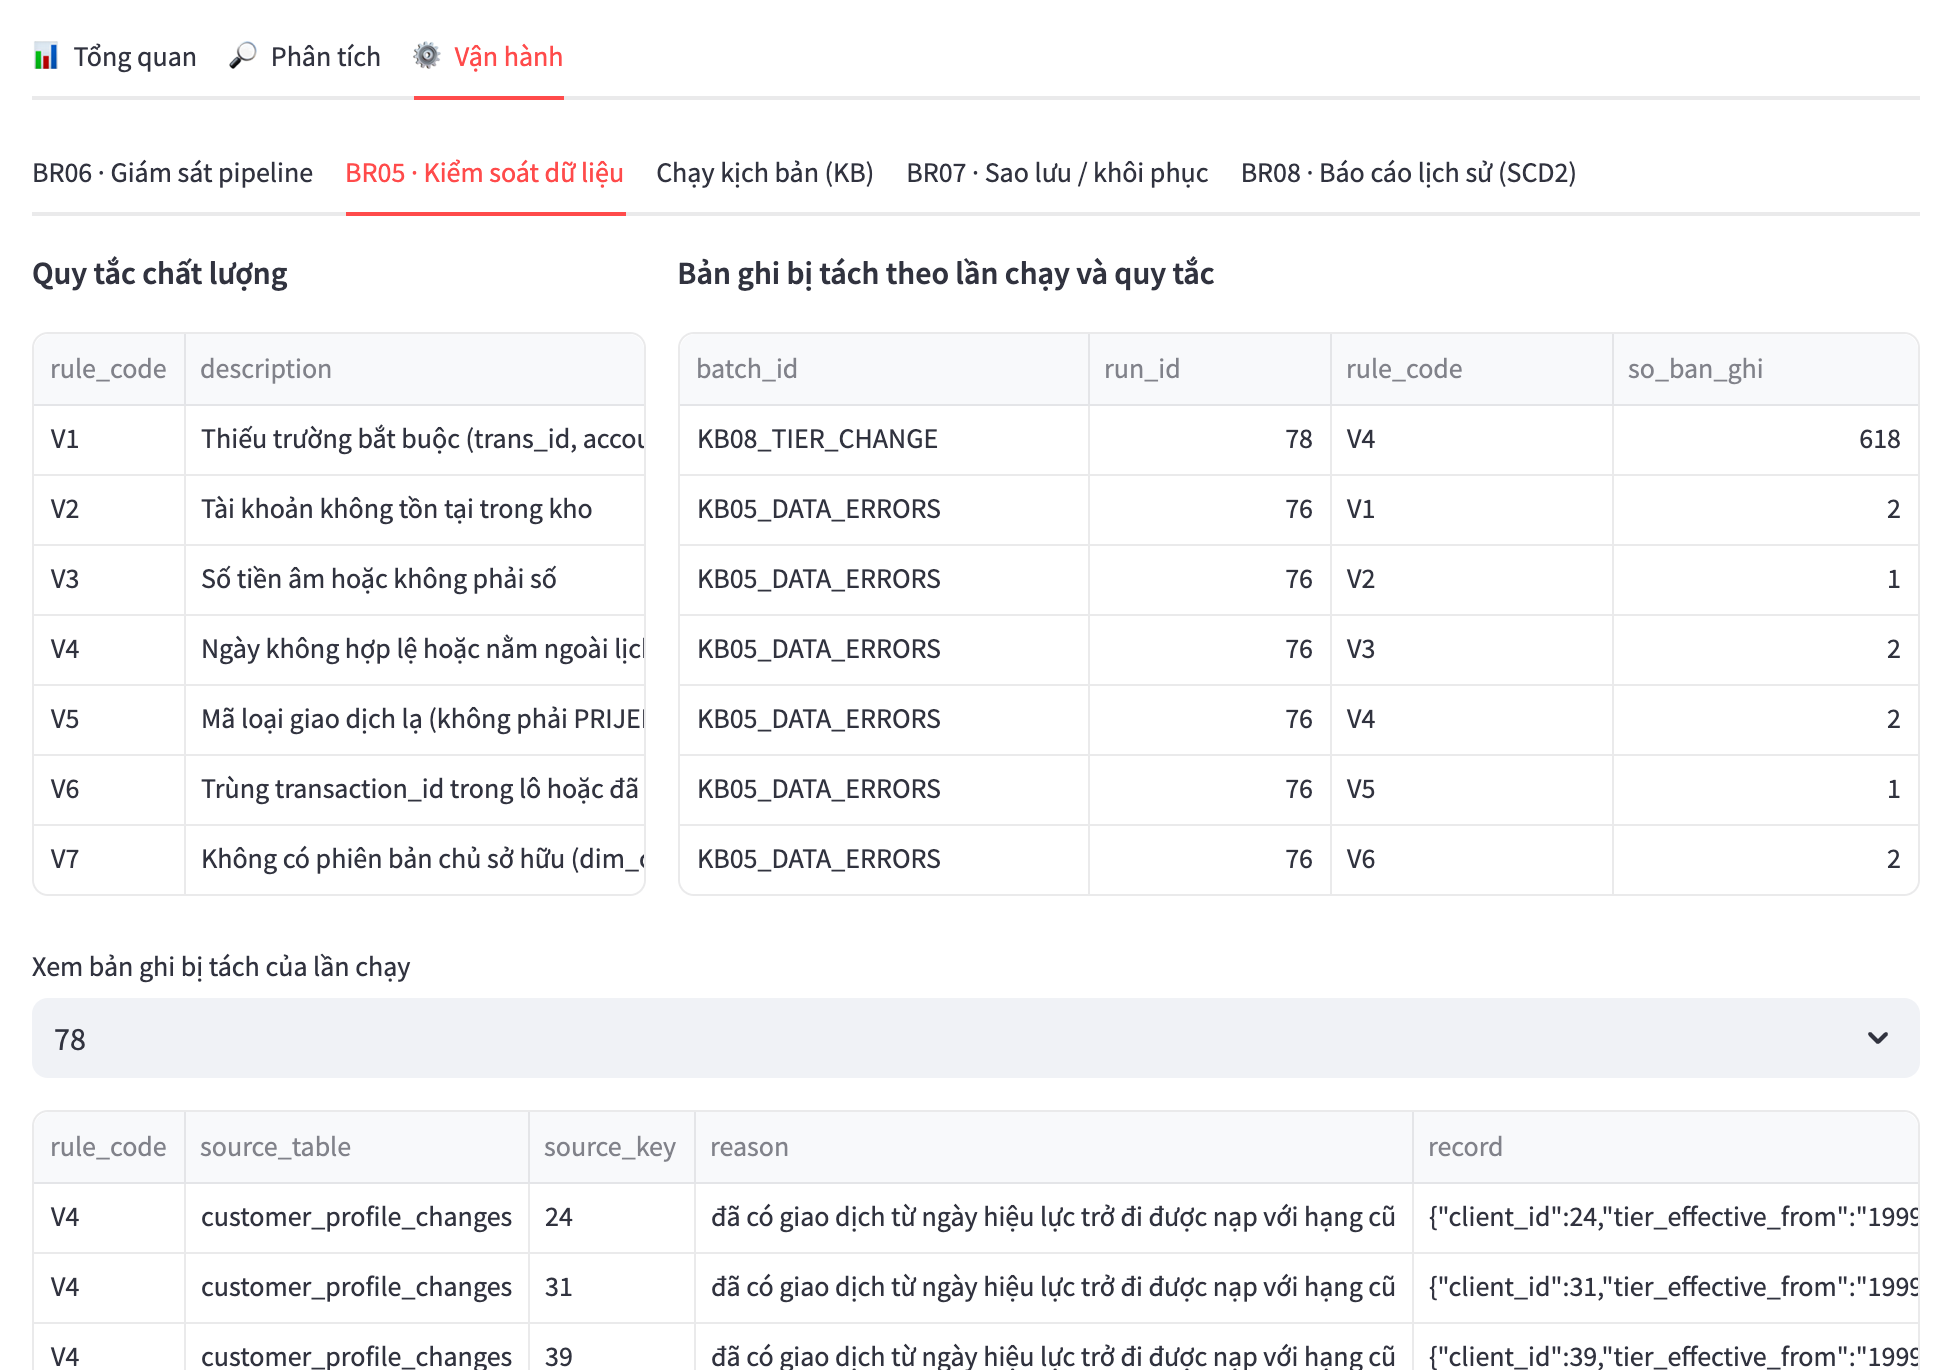
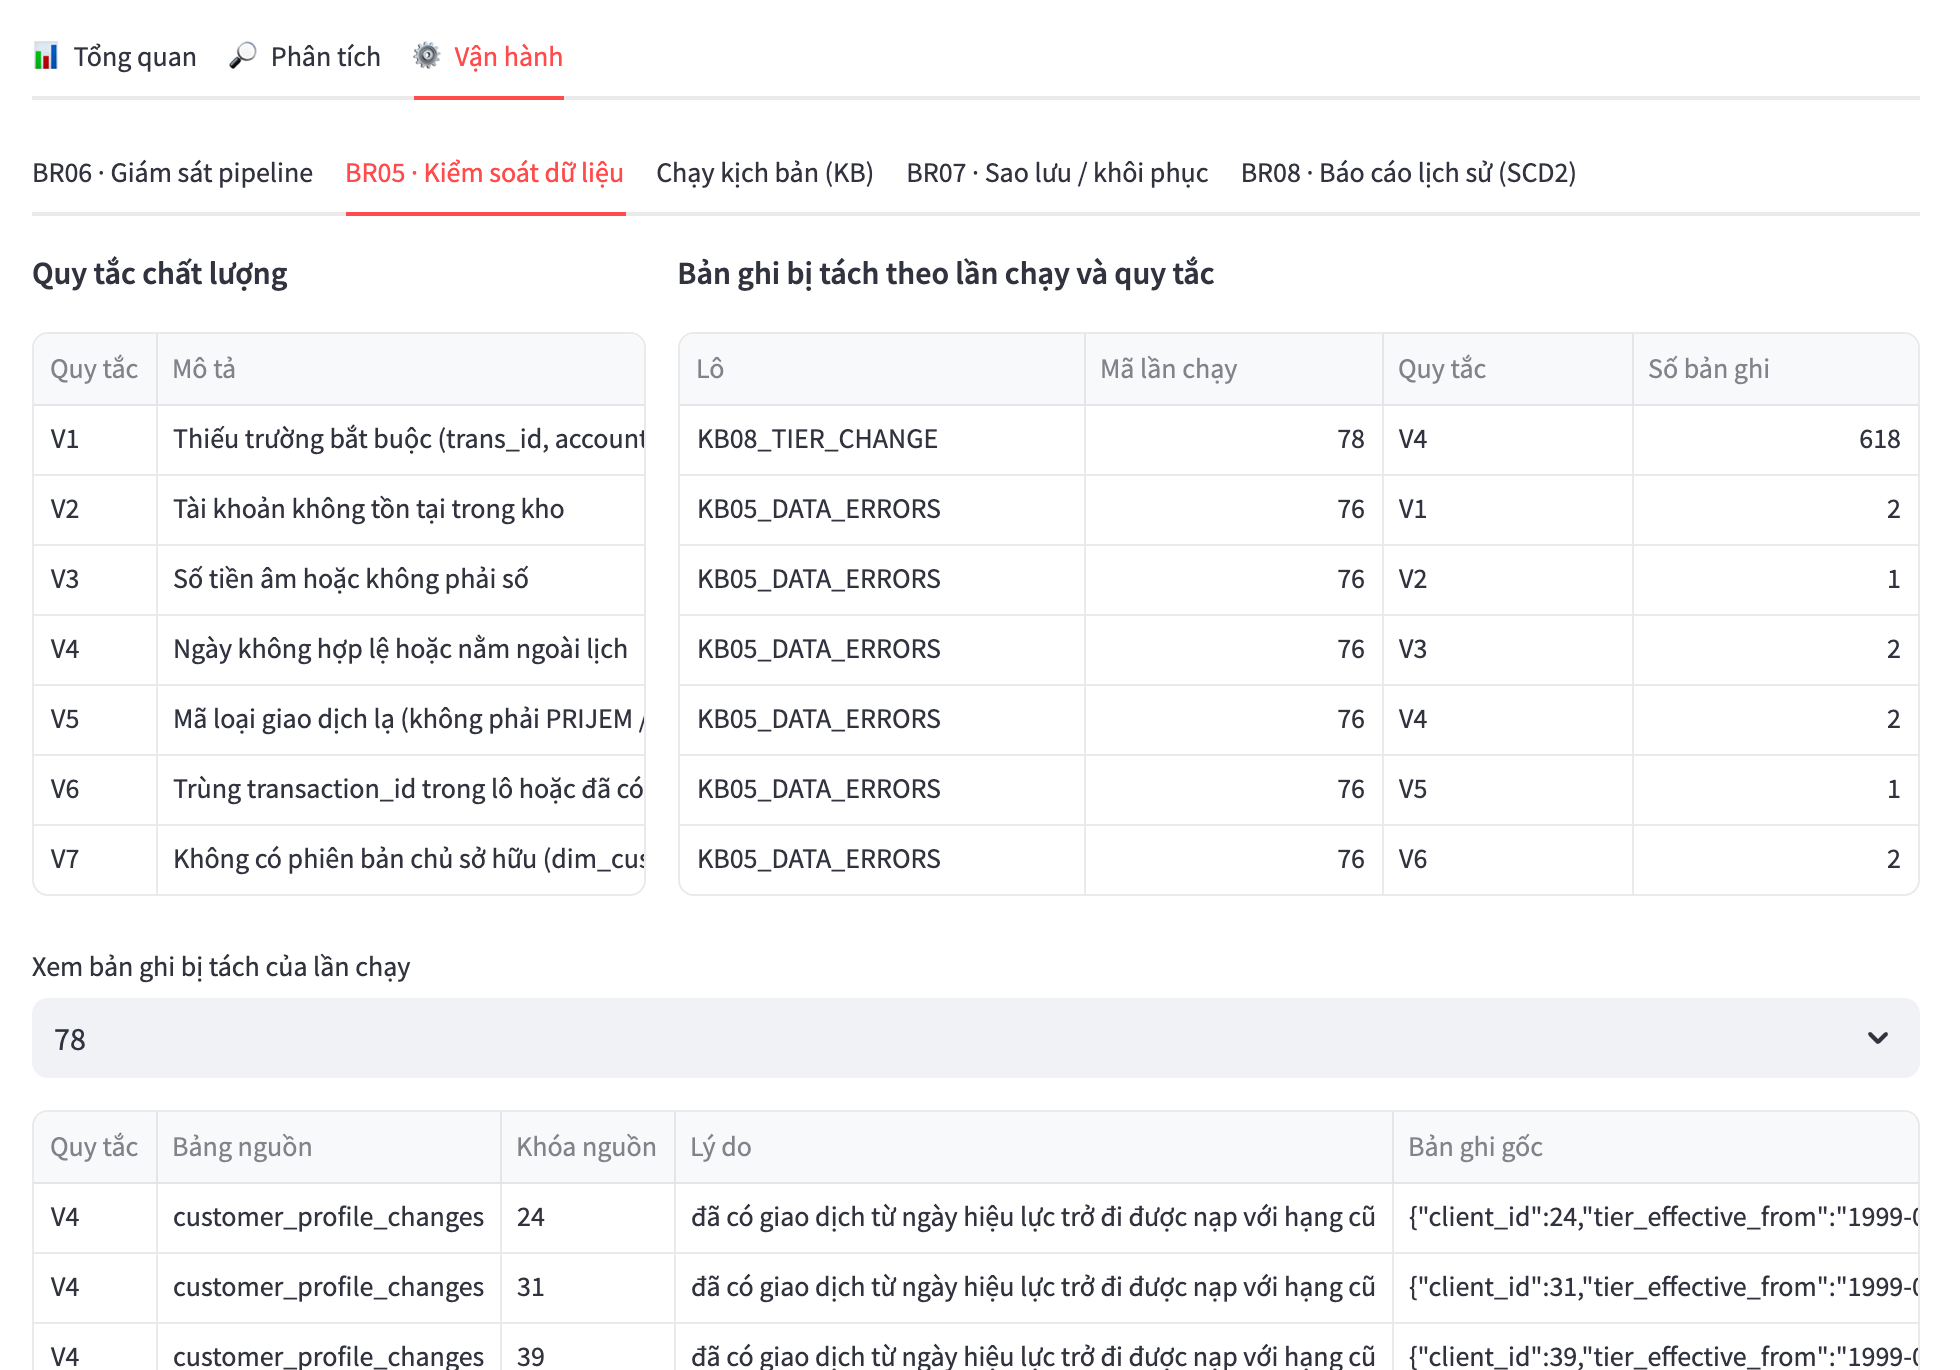
App: Vietnamese column headers for all tables; refreshed screenshots

diff --git a/apps/app/app.py b/apps/app/app.py
@@ -103,6 +103,46 @@ def money(x):
     return f"{float(x or 0):,.0f}".replace(",", ".")
 
 
+# ---------------------------------------------------------------- Vietnamese column headers
+# SQL aliases stay short ASCII; tables are shown with Vietnamese headers (vi() just before display).
+COL_VI = {
+    # money and transactions
+    "hang": "Hạng", "so_giao_dich": "Số giao dịch", "tien_vao": "Tiền vào (CZK)", "tien_ra": "Tiền ra (CZK)",
+    "dong_tien_thuan": "Dòng tiền thuần (CZK)", "so_khach": "Số khách hàng", "ngay": "Ngày",
+    "ma_giao_dich": "Mã giao dịch", "transaction_id": "Mã giao dịch", "chieu": "Chiều tiền", "loai": "Loại",
+    "phuong_thuc": "Phương thức", "muc_dich": "Mục đích", "so_tien": "Số tiền (CZK)",
+    "so_du_sau": "Số dư sau giao dịch", "chu_tai_khoan": "Chủ tài khoản", "lo_nap": "Lô nạp",
+    "nam": "Năm", "ky": "Kỳ",
+    # customer versions (SCD2)
+    "customer_sk": "Mã phiên bản", "valid_from": "Hiệu lực từ", "valid_to": "Hiệu lực đến",
+    "is_current": "Hiện tại", "updated_at": "Cập nhật lúc", "tu_ngay": "Từ ngày", "den_ngay": "Đến ngày",
+    # alerts and their handling
+    "alert_id": "Mã cảnh báo", "rule_code": "Quy tắc", "account_id": "Mã tài khoản", "period_start": "Kỳ",
+    "status": "Trạng thái", "reason": "Lý do", "batch_id": "Lô", "detected_at": "Phát hiện lúc",
+    "acted_at": "Thời điểm", "from_status": "Từ trạng thái", "to_status": "Sang trạng thái",
+    "note": "Ghi chú", "acted_by": "Người xử lý",
+    # runs, steps, rejected records
+    "run_id": "Mã lần chạy", "run_kind": "Loại lần chạy", "started_at": "Bắt đầu", "finished_at": "Kết thúc",
+    "giay": "Thời gian (giây)", "rows_received": "Số dòng nhận", "rows_loaded": "Số dòng nạp",
+    "rows_rejected": "Số dòng bị tách", "failed_step": "Bước lỗi", "error_message": "Thông báo lỗi",
+    "step_order": "Thứ tự", "step_name": "Bước", "rows_in": "Số dòng vào", "rows_out": "Số dòng ra",
+    "description": "Mô tả", "so_ban_ghi": "Số bản ghi", "source_table": "Bảng nguồn",
+    "source_key": "Khóa nguồn", "record": "Bản ghi gốc", "rejected_at": "Thời điểm tách", "n": "Số lượng",
+    # backups
+    "backup_id": "Bản sao lưu", "created_at": "Tạo lúc", "phien_ban_scd": "Số phiên bản SCD",
+    "op_id": "Mã thao tác", "op_type": "Thao tác", "khop_ban_sao_luu": "Khớp bản sao lưu",
+    # scenario input files (Berka format)
+    "trans_id": "Mã giao dịch", "date": "Ngày (YYMMDD)", "type": "Loại", "operation": "Phương thức",
+    "amount": "Số tiền", "balance": "Số dư", "k_symbol": "Mục đích", "bank": "Ngân hàng đối tác",
+    "account": "Tài khoản đối tác", "client_id": "Mã khách hàng", "membership_tier": "Hạng thành viên",
+    "tier_effective_from": "Hạng hiệu lực từ",
+}
+
+
+def vi(df):
+    return df.rename(columns=lambda c: COL_VI.get(c, c))
+
+
 # No FINAL on the fact table: the pipeline never loads a transaction_id twice (check U3); FINAL
 # on 1M rows costs memory the 2.5 GB ClickHouse container does not have to spare.
 FACT = """(SELECT f.*, toDate(toString(f.date_key)) AS d, p.cash_flow_direction AS dir,
@@ -158,8 +198,8 @@ def render_overview():
                            {base} GROUP BY hang""", lo=lo, hi=hi, tiers=tuple(tiers))
         by_tier["hang"] = pd.Categorical(by_tier["hang"], TIERS, ordered=True)
         st.markdown("**Theo hạng thành viên**")
-        st.dataframe(by_tier.sort_values("hang").style.format(
-            {c: lambda v: money(v) for c in ["so_giao_dich", "tien_vao", "tien_ra", "dong_tien_thuan"]}),
+        st.dataframe(vi(by_tier.sort_values("hang")).style.format(
+            {COL_VI[c]: lambda v: money(v) for c in ["so_giao_dich", "tien_vao", "tien_ra", "dong_tien_thuan"]}),
             hide_index=True, use_container_width=True)
 
 
@@ -198,9 +238,9 @@ def render_lookup():
         b.metric("Tiền ra", money(m_out))
         c.metric("Thuần", money(m_in - m_out))
         d.metric("Số giao dịch", len(tx))
-        st.dataframe(tx, hide_index=True, use_container_width=True, height=380,
-                     column_config={"so_tien": st.column_config.NumberColumn(format="%.2f"),
-                                    "so_du_sau": st.column_config.NumberColumn(format="%.2f")})
+        st.dataframe(vi(tx), hide_index=True, use_container_width=True, height=380,
+                     column_config={COL_VI["so_tien"]: st.column_config.NumberColumn(format="%.2f"),
+                                    COL_VI["so_du_sau"]: st.column_config.NumberColumn(format="%.2f")})
 
 
 def render_history():
@@ -221,9 +261,9 @@ def render_history():
         return r.sort_values("hang")
 
     if isinstance(old, tuple) and len(old) == 2:
-        c1.dataframe(tier_report(old), hide_index=True, use_container_width=True)
+        c1.dataframe(vi(tier_report(old)), hide_index=True, use_container_width=True)
     if isinstance(new, tuple) and len(new) == 2:
-        c2.dataframe(tier_report(new), hide_index=True, use_container_width=True)
+        c2.dataframe(vi(tier_report(new)), hide_index=True, use_container_width=True)
     scd = q_ch("""SELECT count() AS phien_ban, countIf(is_current = 1) AS hien_tai, countIf(is_current = 0) AS da_dong,
                          uniqExact(client_id) AS khach FROM dw.dim_customer FINAL""").iloc[0]
     st.write(f"`dim_customer`: **{scd.phien_ban:,}** phiên bản · {scd.hien_tai:,} hiện tại · {scd.da_dong:,} đã đóng · "
@@ -233,16 +273,16 @@ def render_history():
     vers = q_ch("""SELECT customer_sk, membership_tier AS hang, valid_from, valid_to, is_current, updated_at
                    FROM dw.dim_customer FINAL WHERE client_id = %(c)s ORDER BY valid_from""", c=int(demo))
     vers["valid_to"] = vers["valid_to"].map(lambda d: "hiện tại" if d.year == 2299 else d)
-    st.dataframe(vers, hide_index=True, use_container_width=True)
+    st.dataframe(vi(vers), hide_index=True, use_container_width=True)
     if len(vers):
-        st.dataframe(q_ch(f"""SELECT c.membership_tier AS hang, t.customer_sk, min(t.d) AS tu_ngay, max(t.d) AS den_ngay,
+        st.dataframe(vi(q_ch(f"""SELECT c.membership_tier AS hang, t.customer_sk, min(t.d) AS tu_ngay, max(t.d) AS den_ngay,
                                      count() AS so_giao_dich, sumIf(amount, dir='IN') AS tien_vao,
                                      sumIf(amount, dir='OUT') AS tien_ra
                               FROM {FACT} AS t
                               JOIN (SELECT customer_sk, membership_tier FROM dw.dim_customer FINAL
                                     WHERE client_id = %(c)s) AS c USING (customer_sk)
                               WHERE t.customer_sk IN (SELECT customer_sk FROM dw.dim_customer FINAL WHERE client_id = %(c)s)
-                              GROUP BY hang, t.customer_sk ORDER BY tu_ngay""", c=int(demo)),
+                              GROUP BY hang, t.customer_sk ORDER BY tu_ngay""", c=int(demo))),
                      hide_index=True, use_container_width=True)
 
 
@@ -289,7 +329,7 @@ def render_sql():
                 df = pd.DataFrame(r.result_rows, columns=r.column_names)
                 st.success(f"{len(df):,} dòng · {time.perf_counter() - started:.2f} s".replace(",", ".")
                            + (" · đã cắt ở 10.000 dòng" if len(df) >= 10_000 else ""))
-                st.dataframe(df, hide_index=True, use_container_width=True)
+                st.dataframe(vi(df), hide_index=True, use_container_width=True)
                 st.download_button("Tải CSV", df.to_csv(index=False).encode(), "ket_qua.csv", "text/csv")
 
 
@@ -373,7 +413,7 @@ with analysis:
             alerts_df = q_pg(sql + " ORDER BY detected_at DESC, alert_id DESC LIMIT 500", params)
             st.markdown(f"**{len(alerts_df)} cảnh báo** (tối đa 500, mới nhất trước)")
             show = alerts_df.assign(status=alerts_df.status.map(STATUS_VI), rule_code=alerts_df.rule_code.map(RULE_VI))
-            pick = st.dataframe(show, hide_index=True, use_container_width=True, height=260,
+            pick = st.dataframe(vi(show), hide_index=True, use_container_width=True, height=260,
                                 on_select="rerun", selection_mode="single-row", key="al_table")
             rows = pick.selection.rows if pick and pick.selection else []
             if rows:
@@ -387,10 +427,10 @@ with analysis:
                 c2.markdown("**Giao dịch liên quan**")
                 ids = list(full.transaction_ids)
                 if ids:
-                    c2.dataframe(q_ch(f"""SELECT t.d AS ngay, t.transaction_id, t.dir AS chieu, t.operation_name AS phuong_thuc,
+                    c2.dataframe(vi(q_ch(f"""SELECT t.d AS ngay, t.transaction_id, t.dir AS chieu, t.operation_name AS phuong_thuc,
                                                  t.amount AS so_tien, t.balance_after AS so_du_sau
                                           FROM {FACT} AS t WHERE t.transaction_id IN %(ids)s ORDER BY t.date_key""",
-                                      ids=tuple(int(x) for x in ids)), hide_index=True, use_container_width=True)
+                                      ids=tuple(int(x) for x in ids))), hide_index=True, use_container_width=True)
                 st.markdown("**BR04 · Xử lý cảnh báo**")
                 with st.form(f"act_{full.alert_id}"):
                     c1, c2, c3 = st.columns([1, 2, 1])
@@ -410,7 +450,7 @@ with analysis:
                 if len(hist):
                     hist["from_status"] = hist.from_status.map(STATUS_VI)
                     hist["to_status"] = hist.to_status.map(STATUS_VI)
-                    st.dataframe(hist, hide_index=True, use_container_width=True)
+                    st.dataframe(vi(hist), hide_index=True, use_container_width=True)
 
 # ================================================================ VẬN HÀNH (U03, BR05-BR08)
 with operations:
@@ -425,7 +465,7 @@ with operations:
                        FROM ops.pipeline_run ORDER BY run_id DESC LIMIT 200""")
         tot = q_pg("SELECT status, count(*) AS n FROM ops.pipeline_run GROUP BY status")
         st.write(" · ".join(f"**{r.status}**: {r.n}" for r in tot.itertuples()))
-        pick = st.dataframe(runs, hide_index=True, use_container_width=True, height=300,
+        pick = st.dataframe(vi(runs), hide_index=True, use_container_width=True, height=300,
                             on_select="rerun", selection_mode="single-row", key="runs_table")
         rows = pick.selection.rows if pick and pick.selection else []
         if rows:
@@ -433,10 +473,10 @@ with operations:
             st.markdown(f"**Lần chạy #{r.run_id}** · lô `{r.batch_id}` · {r.run_kind} · **{r.status}**")
             if r.status == "FAILED":
                 st.error(f"Bước thất bại: {r.failed_step}\n\n{r.error_message}")
-            st.dataframe(q_pg("""SELECT step_order, step_name, status, started_at,
+            st.dataframe(vi(q_pg("""SELECT step_order, step_name, status, started_at,
                                         round(extract(epoch FROM finished_at - started_at)::numeric, 2) AS giay,
                                         rows_in, rows_out, rows_rejected, error_message
-                                 FROM ops.pipeline_step WHERE run_id = %s ORDER BY step_order""", [int(r.run_id)]),
+                                 FROM ops.pipeline_step WHERE run_id = %s ORDER BY step_order""", [int(r.run_id)])),
                          hide_index=True, use_container_width=True)
 
     with sub_dq:
@@ -446,14 +486,14 @@ with operations:
                           GROUP BY 1, 2, 3 ORDER BY 2 DESC, 3""")
         c1, c2 = st.columns([1, 2])
         c1.markdown("**Quy tắc chất lượng**")
-        c1.dataframe(rules, hide_index=True, use_container_width=True)
+        c1.dataframe(vi(rules), hide_index=True, use_container_width=True)
         c2.markdown("**Bản ghi bị tách theo lần chạy và quy tắc**")
-        c2.dataframe(summary, hide_index=True, use_container_width=True)
+        c2.dataframe(vi(summary), hide_index=True, use_container_width=True)
         if len(summary):
             run_pick = st.selectbox("Xem bản ghi bị tách của lần chạy", sorted(summary.run_id.unique(), reverse=True))
-            st.dataframe(q_pg("""SELECT rule_code, source_table, source_key, reason, record, rejected_at
+            st.dataframe(vi(q_pg("""SELECT rule_code, source_table, source_key, reason, record, rejected_at
                                  FROM ops.rejected_record WHERE run_id = %s ORDER BY rule_code, reject_id""",
-                              [int(run_pick)]), hide_index=True, use_container_width=True)
+                              [int(run_pick)])), hide_index=True, use_container_width=True)
 
     with sub_kb:
         st.caption("Luồng N01–N05: chọn và xem trước (chưa ghi Data Lake/kho) → chạy → đối chiếu mong đợi và thực tế → chạy lại")
@@ -465,7 +505,7 @@ with operations:
             c1, c2 = st.columns(2)
             for name, f in pv["files"].items():
                 c1.markdown(f"**{name}** · {f['rows']} dòng (10 dòng đầu)")
-                c1.dataframe(pd.DataFrame(f["sample"], columns=f["header"]), hide_index=True, use_container_width=True)
+                c1.dataframe(vi(pd.DataFrame(f["sample"], columns=f["header"])), hide_index=True, use_container_width=True)
             c2.markdown("**Kết quả mong đợi** (`expected.json`)")
             c2.json(pv.get("expected", {}), expanded=False)
             batch = pv.get("expected", {}).get("batch_id")
@@ -477,13 +517,13 @@ with operations:
                     last = q_pg("""SELECT run_id, run_kind, status, rows_received, rows_loaded, rows_rejected
                                    FROM ops.pipeline_run WHERE batch_id = %s ORDER BY run_id DESC LIMIT 1""", [batch])
                     st.markdown("**Thực tế (lần chạy vừa xong)**")
-                    st.dataframe(last, hide_index=True, use_container_width=True)
+                    st.dataframe(vi(last), hide_index=True, use_container_width=True)
                     if kb == "KB03":
-                        st.dataframe(q_pg("SELECT rule_code, account_id, period_start, status, reason FROM ops.alert "
-                                          "WHERE batch_id = %s ORDER BY alert_id", [batch]), hide_index=True)
+                        st.dataframe(vi(q_pg("SELECT rule_code, account_id, period_start, status, reason FROM ops.alert "
+                                          "WHERE batch_id = %s ORDER BY alert_id", [batch])), hide_index=True)
                     if kb == "KB05":
-                        st.dataframe(q_pg("SELECT rule_code, count(*) AS n FROM ops.rejected_record WHERE run_id = %s "
-                                          "GROUP BY 1 ORDER BY 1", [int(last.run_id[0])]), hide_index=True)
+                        st.dataframe(vi(q_pg("SELECT rule_code, count(*) AS n FROM ops.rejected_record WHERE run_id = %s "
+                                          "GROUP BY 1 ORDER BY 1", [int(last.run_id[0])])), hide_index=True)
 
     with sub_backup:
         st.caption("Sao lưu cấu trúc và dữ liệu của 6 bảng DW (kể cả lịch sử SCD) vào vùng lưu riêng; chỉ chạy khi pipeline không ghi")
@@ -501,13 +541,13 @@ with operations:
             if target and st.button("⏪ Khôi phục", type="primary"):
                 run_and_wait("restore", target, f"Khôi phục {target}")
         st.markdown("**Danh mục bản sao lưu**")
-        st.dataframe(cat, hide_index=True, use_container_width=True)
+        st.dataframe(vi(cat), hide_index=True, use_container_width=True)
         ops_df = q_pg("""SELECT op_id, backup_id, op_type, status, started_at,
                                 round(extract(epoch FROM finished_at - started_at)::numeric, 1) AS giay,
                                 result->'matches_backup' AS khop_ban_sao_luu, error_message
                          FROM ops.backup_operation ORDER BY op_id DESC""")
         st.markdown("**Lịch sử thao tác** (khôi phục: so số dòng, tiền vào/ra, báo cáo theo hạng, phiên bản SCD với bản sao lưu)")
-        st.dataframe(ops_df, hide_index=True, use_container_width=True)
+        st.dataframe(vi(ops_df), hide_index=True, use_container_width=True)
 
     with sub_hist:
         render_history()
